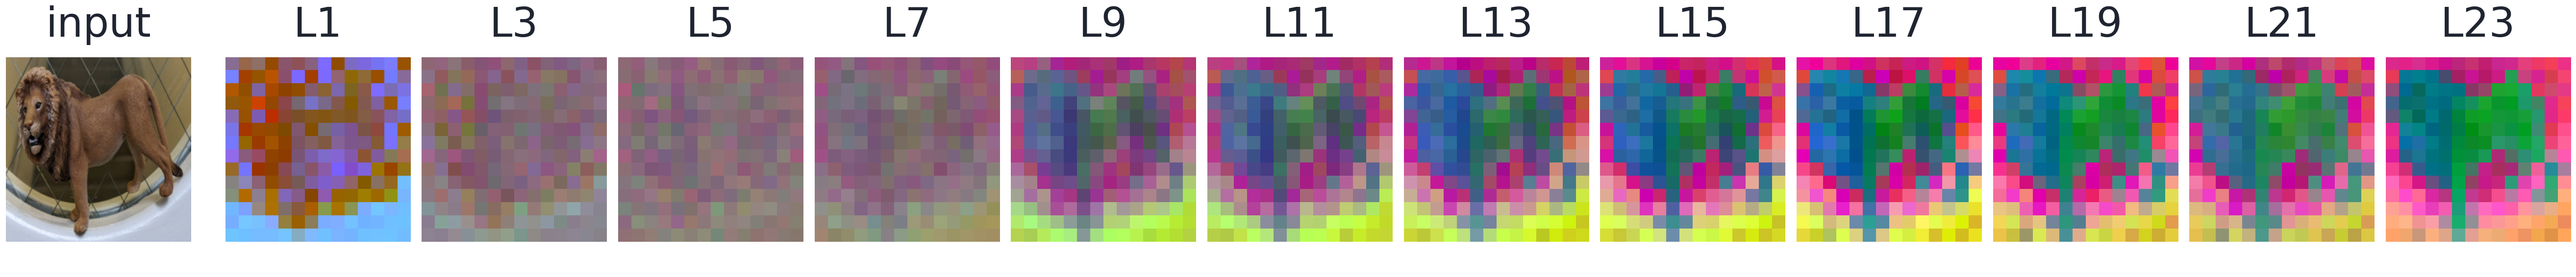
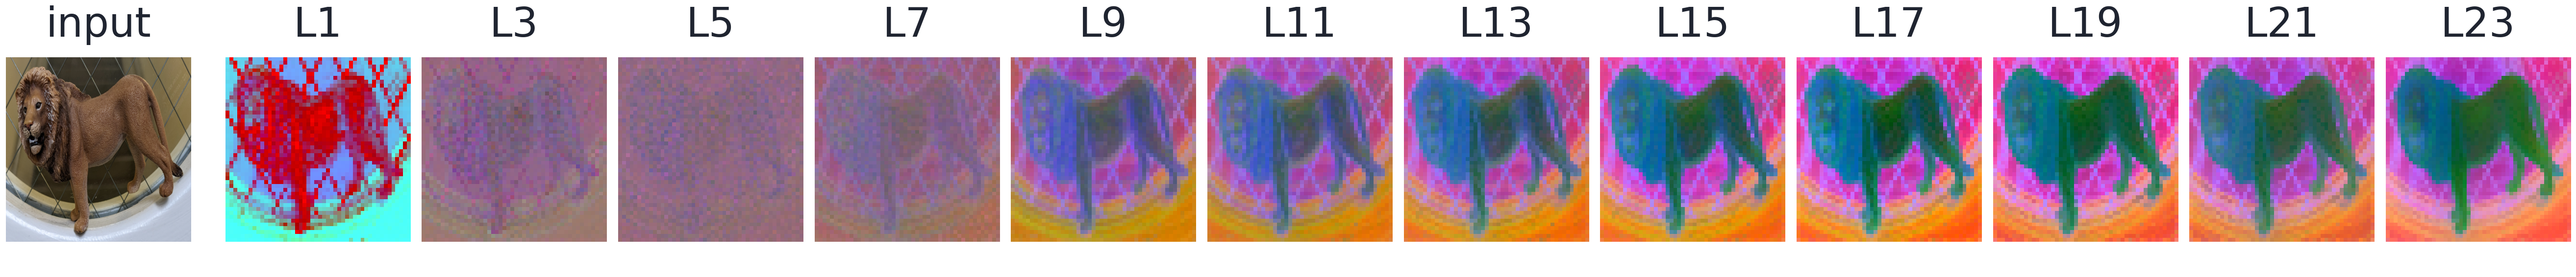
mlinpl2026: params chart redrawn as vector bars in column 3; 768px PCA strip
- 'Accuracy vs. trainable parameters' moved to column 3 and redrawn as inline SVG
  paired bars (mean rank | params) in poster fonts/colours
- Conclusion moved to column 1
- Higher-resolution PCA strip (768 px input, 48x48 patches), caption updated
- Fig. 2 takes the spare height in the evidence card

Claude-Session: https://claude.ai/code/session_01Qe6FXh8JAFN3GjHXoMh1xe

diff --git a/poster/index.html b/poster/index.html
@@ -230,14 +230,14 @@ const CARD_REGISTRY = {
   evidence: {
     title: 'Abstraction–Depth Correlation: Empirical Evidence',
     color: null,
-    grow: false,
+    grow: true,
     body: (
       <>
         <p>We probe a frozen DINOv3-L/16 independently at every layer &#8467; &isin; {'{1,...,24}'} on three NYUv2 tasks of increasing abstraction, training a lightweight head per layer and recording its validation score. All three tasks share the same training images, yet the best-performing layer shifts systematically deeper as task abstraction increases.</p>
         <div className="fig"><div className="fig-wrap"><img src="fig_motivation.png" alt="Layer sweeps on NYUv2 for surface normals, depth and segmentation" /></div>
         <div className="cap"><b>Fig. 2:</b> Layer-wise probing on NYUv2 with DINOv3-L/16: the best layer shifts deeper as tasks become more semantic &mdash; surface normals peak at layer&nbsp;18, depth at layer&nbsp;21, segmentation at the final layer&nbsp;24 (the last layer).</div></div>
-        <div className="fig"><div className="fig-wrap"><img src="fig_pca_layers.png" alt="PCA-to-RGB patch features of a frozen DINOv3-L at layers 1 to 23" /></div>
-        <div className="cap"><b>Fig. 3:</b> Same image, different depths: frozen DINOv3-L patch features coloured by one PCA shared across layers. Early layers respond to texture and colour, middle layers are nearly uniform in these directions, deep layers separate object from background.</div></div>
+        <div className="fig" style={{ flex: '0 0 auto' }}><div className="fig-wrap" style={{ flex: '0 0 auto' }}><img src="fig_pca_layers.png" style={{ height: 'auto' }} alt="PCA-to-RGB patch features of a frozen DINOv3-L at layers 1 to 23" /></div>
+        <div className="cap"><b>Fig. 3:</b> Same image, different depths: frozen DINOv3-L patch features (768&nbsp;px input) coloured by one PCA shared across layers. Early layers respond to texture and colour (L1 picks up the window lattice), middle layers are nearly uniform in these directions, and deep layers trace the lion's outline, legs and mane against the background.</div></div>
         <div className="hl"><p>Exhaustive per-task layer search is costly and still commits to one <i>fixed</i> depth. Worse, a single layer ignores complementary information spread across <i>multiple</i> depths, and concatenating all layers is strong but expensive (6.8M vs 1.6M trainable parameters on DINOv3-L, including the task head). This motivates AMDF's patch-wise fusion across the full frozen hierarchy.</p></div>
       </>
     ),
@@ -247,13 +247,55 @@ const CARD_REGISTRY = {
     color: 'purple',
     grow: true,
     body: (
-      <div style={{ display: 'flex', gap: '5mm', alignItems: 'center', flex: 1 }}>
-        <div className="fig" style={{ flex: '0 0 36%' }}><div className="fig-wrap"><img src="fig_params_rank.png" alt="Mean rank over five dense benchmarks versus trainable parameters" /></div></div>
-        <div style={{ flex: 1 }}>
-          <p>Averaged over the five dense benchmarks, <b>AMDF has the best mean rank (1.48)</b> with about a <b>quarter of ConcatLayers' parameters</b> (1.8M vs 7.0M on ViT-L). ConcatLayers still wins depth and camera pose; AMDF wins normals, segmentation and Taskonomy.</p>
-          <div className="cap"><b>Fig. 4:</b> Mean of the per-table ranks over NYUv2 normals, depth, segmentation, Taskonomy and NAVI pose vs. trainable parameters (probe + task head) averaged over those tasks. CUB-200 is excluded (different set of methods).</div>
+      <>
+        <p>Averaged over the five dense benchmarks, <b>AMDF has the best mean rank</b> with about a <b>quarter of ConcatLayers' parameters</b>. ConcatLayers still wins depth and camera pose.</p>
+        <div className="fig">
+          <div className="fig-wrap">
+            <svg viewBox="0 0 1000 211" style={{ width: '100%', height: '100%' }} xmlns="http://www.w3.org/2000/svg">
+              <text x={205} y={26} style={{ fontFamily: 'Nunito', fontSize: 25, fontWeight: 800, fill: 'var(--text)' }}>Mean rank &darr; <tspan style={{ fontWeight: 600, fill: 'var(--text-light)', fontSize: 20 }}>(lower is better)</tspan></text>
+              <text x={625} y={26} style={{ fontFamily: 'Nunito', fontSize: 25, fontWeight: 800, fill: 'var(--text)' }}>Trainable params (M)</text>
+              <line x1={205.0} y1={44} x2={205.0} y2={205} style={{ stroke: '#e4e4e4', strokeWidth: 1.2 }} />
+              <line x1={271.0} y1={44} x2={271.0} y2={205} style={{ stroke: '#e4e4e4', strokeWidth: 1.2 }} />
+              <line x1={337.0} y1={44} x2={337.0} y2={205} style={{ stroke: '#e4e4e4', strokeWidth: 1.2 }} />
+              <line x1={403.0} y1={44} x2={403.0} y2={205} style={{ stroke: '#e4e4e4', strokeWidth: 1.2 }} />
+              <line x1={469.0} y1={44} x2={469.0} y2={205} style={{ stroke: '#e4e4e4', strokeWidth: 1.2 }} />
+              <line x1={535.0} y1={44} x2={535.0} y2={205} style={{ stroke: '#e4e4e4', strokeWidth: 1.2 }} />
+              <line x1={625.0} y1={44} x2={625.0} y2={205} style={{ stroke: '#e4e4e4', strokeWidth: 1.2 }} />
+              <line x1={700.0} y1={44} x2={700.0} y2={205} style={{ stroke: '#e4e4e4', strokeWidth: 1.2 }} />
+              <line x1={775.0} y1={44} x2={775.0} y2={205} style={{ stroke: '#e4e4e4', strokeWidth: 1.2 }} />
+              <line x1={850.0} y1={44} x2={850.0} y2={205} style={{ stroke: '#e4e4e4', strokeWidth: 1.2 }} />
+              <line x1={925.0} y1={44} x2={925.0} y2={205} style={{ stroke: '#e4e4e4', strokeWidth: 1.2 }} />
+              <rect x={0} y={46} width={1000} height={31} rx={5} style={{ fill: 'var(--orange-light)' }} />
+              <text x={193} y={70} textAnchor="end" style={{ fontFamily: 'Nunito', fontSize: 23, fontWeight: 800, fill: 'var(--orange)' }}>AMDF (ours)</text>
+              <rect x={205} y={50} width={97.7} height={23} rx={3} style={{ fill: 'var(--orange)' }} />
+              <text x={310.7} y={69} style={{ fontFamily: 'Nunito', fontSize: 22, fontWeight: 800, fill: 'var(--orange)' }}>1.48</text>
+              <rect x={625} y={50} width={67.1} height={23} rx={3} style={{ fill: 'var(--orange)' }} />
+              <text x={700.1} y={69} style={{ fontFamily: 'Nunito', fontSize: 22, fontWeight: 800, fill: 'var(--orange)' }}>1.79</text>
+              <text x={193} y={103} textAnchor="end" style={{ fontFamily: 'Nunito', fontSize: 23, fontWeight: 600, fill: 'var(--text)' }}>ConcatLayers</text>
+              <rect x={205} y={83} width={113.5} height={23} rx={3} style={{ fill: '#b9bfc9' }} />
+              <text x={326.5} y={102} style={{ fontFamily: 'Nunito', fontSize: 22, fontWeight: 600, fill: 'var(--text)' }}>1.72</text>
+              <rect x={625} y={83} width={262.1} height={23} rx={3} style={{ fill: '#b9bfc9' }} />
+              <text x={895.1} y={102} style={{ fontFamily: 'Nunito', fontSize: 22, fontWeight: 600, fill: 'var(--text)' }}>6.99</text>
+              <text x={193} y={136} textAnchor="end" style={{ fontFamily: 'Nunito', fontSize: 23, fontWeight: 600, fill: 'var(--text)' }}>WeightedLayers</text>
+              <rect x={205} y={116} width={224.4} height={23} rx={3} style={{ fill: '#b9bfc9' }} />
+              <text x={437.4} y={135} style={{ fontFamily: 'Nunito', fontSize: 22, fontWeight: 600, fill: 'var(--text)' }}>3.40</text>
+              <rect x={625} y={116} width={26.2} height={23} rx={3} style={{ fill: '#b9bfc9' }} />
+              <text x={659.2} y={135} style={{ fontFamily: 'Nunito', fontSize: 22, fontWeight: 600, fill: 'var(--text)' }}>0.70</text>
+              <text x={193} y={169} textAnchor="end" style={{ fontFamily: 'Nunito', fontSize: 23, fontWeight: 600, fill: 'var(--text)' }}>LastLayer</text>
+              <rect x={205} y={149} width={269.9} height={23} rx={3} style={{ fill: '#b9bfc9' }} />
+              <text x={482.9} y={168} style={{ fontFamily: 'Nunito', fontSize: 22, fontWeight: 600, fill: 'var(--text)' }}>4.09</text>
+              <rect x={625} y={149} width={26.2} height={23} rx={3} style={{ fill: '#b9bfc9' }} />
+              <text x={659.2} y={168} style={{ fontFamily: 'Nunito', fontSize: 22, fontWeight: 600, fill: 'var(--text)' }}>0.70</text>
+              <text x={193} y={202} textAnchor="end" style={{ fontFamily: 'Nunito', fontSize: 23, fontWeight: 600, fill: 'var(--text)' }}>AvgLayer</text>
+              <rect x={205} y={182} width={284.5} height={23} rx={3} style={{ fill: '#b9bfc9' }} />
+              <text x={497.5} y={201} style={{ fontFamily: 'Nunito', fontSize: 22, fontWeight: 600, fill: 'var(--text)' }}>4.31</text>
+              <rect x={625} y={182} width={26.2} height={23} rx={3} style={{ fill: '#b9bfc9' }} />
+              <text x={659.2} y={201} style={{ fontFamily: 'Nunito', fontSize: 22, fontWeight: 600, fill: 'var(--text)' }}>0.70</text>
+            </svg>
+          </div>
+          <div className="cap"><b>Fig. 4:</b> Mean of the per-table ranks over NYUv2 normals, depth, segmentation, Taskonomy and NAVI pose; parameters (probe + task head, ViT-L backbones) averaged over the same tasks. CUB-200 is excluded (different set of methods).</div>
         </div>
-      </div>
+      </>
     ),
   },
   method: {
@@ -435,7 +477,7 @@ const CARD_REGISTRY = {
   conclusion: {
     title: 'Conclusion',
     color: 'teal',
-    grow: true,
+    grow: false,
     body: (
       <>
         <ul>
@@ -454,9 +496,9 @@ const CARD_REGISTRY = {
    ================================================================ */
 const DEFAULT_LAYOUT = {
   columns: [
-    { id: 'col1', widthMm: 445, cards: ['tldr', 'overview', 'evidence', 'paramsrank'] },
+    { id: 'col1', widthMm: 445, cards: ['tldr', 'overview', 'evidence', 'conclusion'] },
     { id: 'col2', widthMm: 385, cards: ['method', 'implementation', 'analysis'] },
-    { id: 'col3', widthMm: null, cards: ['results', 'taskonomy', 'classification', 'camerapose', 'conclusion'] },
+    { id: 'col3', widthMm: null, cards: ['results', 'taskonomy', 'classification', 'camerapose', 'paramsrank'] },
   ],
 };
 const DEFAULT_CARD_HEIGHTS = {};
